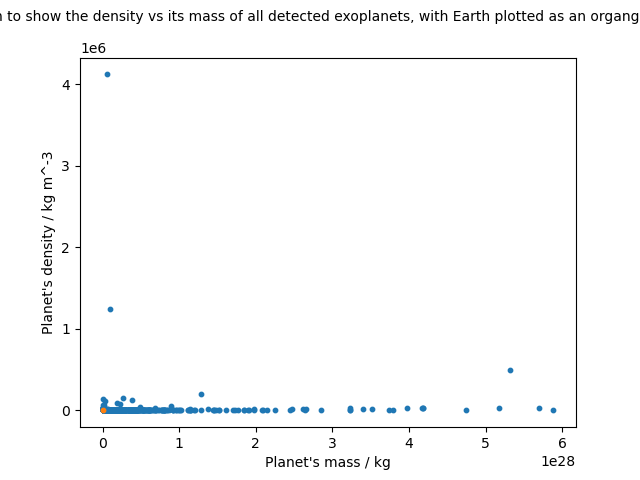
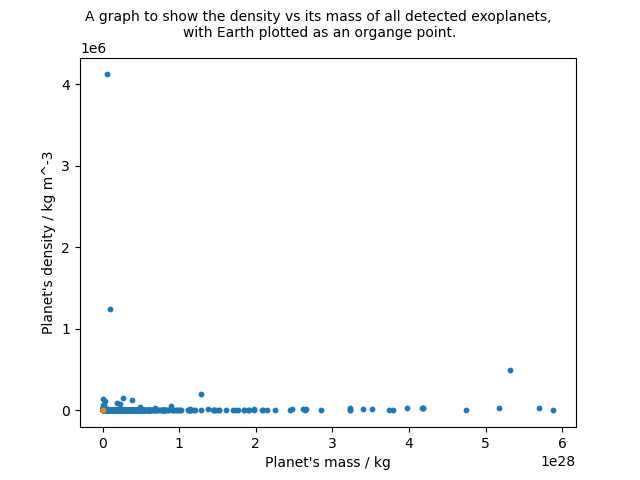
Update density plots

Changed region(s): [[0.0, 0.0, 1.0, 0.0938]]

diff --git a/deps/plot_logic.py b/deps/plot_logic.py
@@ -114,7 +114,11 @@ def graph_density(exo, savepath, savepath_histogram, hab=1):
 	earth_mass = 5.972e24
 	earth_dens = 5520 # source http://astronomy.nmsu.edu/mchizek/105/LABS/EarthDensity.pdf
 
-	plt.suptitle("A graph to show the density vs its mass of all detected exoplanets, with Earth plotted as an organge point.", fontsize=10)
+	if hab == 1:
+		plt.suptitle("A graph to show the density vs its mass of habitable-zone exoplanets, \nwith Earth plotted as an organge point.", fontsize=10)
+	else: 
+		plt.suptitle("A graph to show the density vs its mass of all detected exoplanets, \nwith Earth plotted as an organge point.", fontsize=10)
+
 	plt.xlabel("Planet's mass / kg")
 	plt.ylabel("Planet's density / kg m^-3")
 
@@ -126,8 +130,12 @@ def graph_density(exo, savepath, savepath_histogram, hab=1):
 	# scatter graph is too busy to provide any decent interpretations, so I'll use a histogram instead:
 
 	plt.clf()
-	
-	plt.suptitle("A histogram to show the frequency of different planet types.",fontsize=10)
+
+	if hab == 1:
+		plt.suptitle("A histogram to show the frequency of different planet types of \nhabitable-zone planets.",fontsize=10)
+	else: 
+		plt.suptitle("A histogram to show the frequency of different planet types.",fontsize=10)
+
 	plt.ylabel("Frequency")
 	plt.xlabel("Planet type")
 	plt.xticks([]) # remove numbers off of x axis
